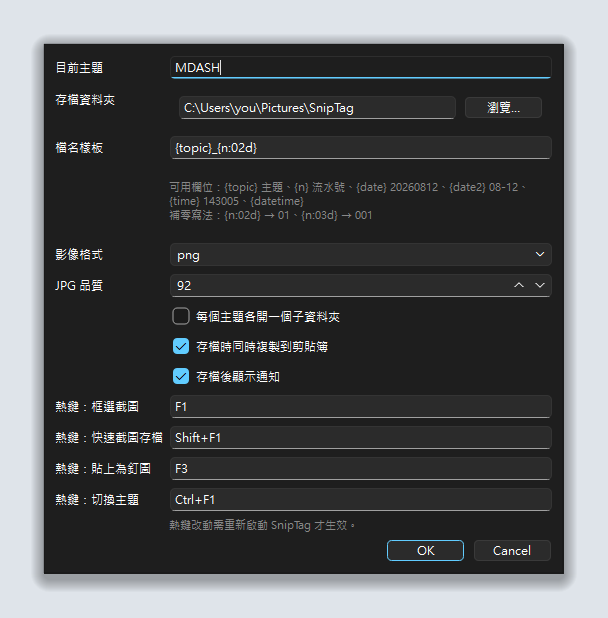
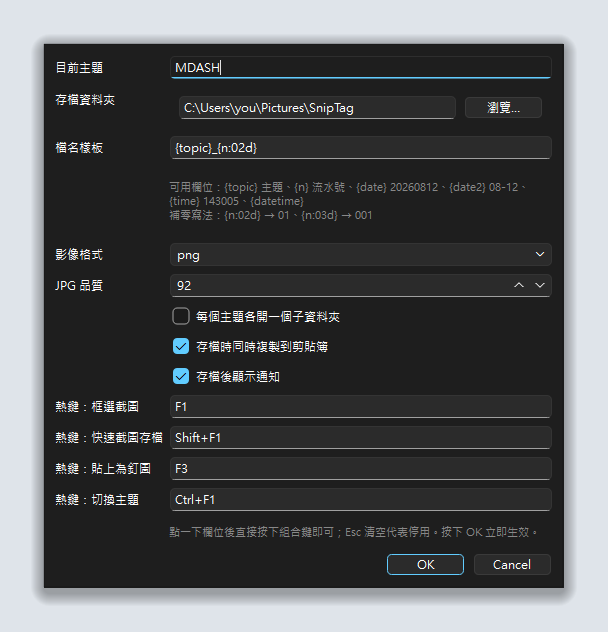
Record hotkeys by keypress and apply them without restarting
The settings dialog asked users to type Shift+F1 by hand. Replace the
plain fields with a HotkeyEdit that records the actual combination:
modifier-only presses are ignored until a real key arrives, unsupported
combinations are rejected, and Esc clears the binding to disable it.

Global hotkeys are unregistered while the dialog is open, otherwise
RegisterHotKey swallows F1 before the recorder can ever see it. On OK
the bindings are re-registered immediately, so no restart is needed.

Also add build.py (one-file exe with a generated .ico) and GitHub
Actions workflows that run the tests on every push and publish a release
with the built exe when a v* tag lands.

diff --git a/sniptag/dialogs.py b/sniptag/dialogs.py
@@ -2,12 +2,43 @@
 from __future__ import annotations
 
 from PySide6.QtCore import Qt
+from PySide6.QtGui import QKeySequence
 from PySide6.QtWidgets import (
     QCheckBox, QComboBox, QDialog, QDialogButtonBox, QFileDialog, QFormLayout,
     QHBoxLayout, QLabel, QLineEdit, QPushButton, QSpinBox, QVBoxLayout, QWidget,
 )
 
+from . import hotkeys
 from .naming import Namer
+
+MODIFIER_KEYS = (Qt.Key_Control, Qt.Key_Shift, Qt.Key_Alt, Qt.Key_Meta,
+                 Qt.Key_AltGr, Qt.Key_CapsLock, Qt.Key_NumLock)
+CLEAR_KEYS = (Qt.Key_Backspace, Qt.Key_Delete, Qt.Key_Escape)
+
+
+class HotkeyEdit(QLineEdit):
+    """點一下就開始錄製：直接按下想要的組合鍵，不用自己打字。"""
+
+    def __init__(self, value: str, parent: QWidget | None = None) -> None:
+        super().__init__(value, parent)
+        self.setReadOnly(True)
+        self.setPlaceholderText("點一下，然後按下想要的組合鍵（Esc 停用）")
+        self.setToolTip("點一下之後直接按組合鍵；Esc / Backspace 可清空停用此熱鍵。")
+
+    def keyPressEvent(self, event) -> None:
+        key = event.key()
+        if key in MODIFIER_KEYS:
+            return                      # 等使用者按下真正的那個鍵
+        if key in CLEAR_KEYS:
+            self.clear()
+            return
+        try:
+            combo = QKeySequence(event.keyCombination()).toString()
+        except (AttributeError, TypeError):
+            combo = QKeySequence(int(event.modifiers().value) | key).toString()
+        if combo and hotkeys.parse(combo) is not None:
+            self.setText(combo)
+        # 不支援的組合就忽略，維持原本的值
 
 TEMPLATE_HELP = (
     "可用欄位：{topic} 主題、{n} 流水號、{date} 20260812、"
@@ -116,16 +147,19 @@ class SettingsDialog(QDialog):
         self.notify_check.setChecked(bool(config["notify_on_save"]))
         form.addRow("", self.notify_check)
 
-        self.hk_capture = QLineEdit(config["hotkey_capture"], self)
-        self.hk_quick = QLineEdit(config["hotkey_quickshot"], self)
-        self.hk_pin = QLineEdit(config["hotkey_pin"], self)
-        self.hk_topic = QLineEdit(config["hotkey_topic"], self)
+        self.hk_capture = HotkeyEdit(config["hotkey_capture"], self)
+        self.hk_quick = HotkeyEdit(config["hotkey_quickshot"], self)
+        self.hk_pin = HotkeyEdit(config["hotkey_pin"], self)
+        self.hk_topic = HotkeyEdit(config["hotkey_topic"], self)
         form.addRow("熱鍵：框選截圖", self.hk_capture)
         form.addRow("熱鍵：快速截圖存檔", self.hk_quick)
         form.addRow("熱鍵：貼上為釘圖", self.hk_pin)
         form.addRow("熱鍵：切換主題", self.hk_topic)
-        hotkey_note = QLabel("熱鍵改動需重新啟動 SnipTag 才生效。", self)
+        hotkey_note = QLabel(
+            "點一下欄位後直接按下組合鍵即可；Esc 清空代表停用。按下 OK 立即生效。",
+            self)
         hotkey_note.setStyleSheet("color:#888; font-size:11px;")
+        hotkey_note.setWordWrap(True)
         form.addRow("", hotkey_note)
 
         layout = QVBoxLayout(self)

diff --git a/test_hotkeys.py b/test_hotkeys.py
@@ -1,0 +1,78 @@
+"""熱鍵解析與錄製欄位測試：python test_hotkeys.py"""
+from __future__ import annotations
+
+import sys
+
+from PySide6.QtCore import QEvent, Qt
+from PySide6.QtGui import QKeyEvent
+from PySide6.QtWidgets import QApplication
+
+from sniptag import hotkeys
+from sniptag.dialogs import HotkeyEdit
+
+MOD_ALT, MOD_CONTROL, MOD_SHIFT, MOD_WIN = 0x1, 0x2, 0x4, 0x8
+
+
+def check(condition: bool, label: str) -> None:
+    print(("  ok   " if condition else "  FAIL ") + label)
+    assert condition, label
+
+
+def press(widget: HotkeyEdit, key, modifiers=Qt.NoModifier) -> None:
+    widget.keyPressEvent(QKeyEvent(QEvent.KeyPress, key, modifiers))
+
+
+def main() -> None:
+    app = QApplication.instance() or QApplication(sys.argv)
+
+    print("解析")
+    check(hotkeys.parse("F1")[1] == 0x70, "F1 -> VK 0x70")
+    check(hotkeys.parse("F12")[1] == 0x7B, "F12 -> VK 0x7B")
+    mods, vk = hotkeys.parse("Ctrl+Shift+A")
+    check(vk == ord("A"), "字母鍵")
+    check(mods & MOD_CONTROL and mods & MOD_SHIFT, "Ctrl 與 Shift 都在")
+    check(not mods & MOD_ALT, "沒按的修飾鍵不會混進來")
+    check(hotkeys.parse("Meta+P")[0] & MOD_WIN, "Meta 對應到 Windows 鍵")
+    check(hotkeys.parse("bogus+") is None, "亂打的組合 -> None")
+    check(hotkeys.parse("") is None, "空字串 -> None")
+
+    print("錄製欄位")
+    widget = HotkeyEdit("F1")
+    check(widget.text() == "F1", "帶入原本的值")
+    check(widget.isReadOnly(), "唯讀，不能用打字的")
+
+    press(widget, Qt.Key_F1, Qt.ShiftModifier)
+    check(widget.text() == "Shift+F1", "按 Shift+F1 -> 記錄成 Shift+F1")
+    check(hotkeys.parse(widget.text()) is not None, "記錄的字串本身可被解析")
+
+    press(widget, Qt.Key_F4, Qt.ControlModifier | Qt.AltModifier)
+    check(widget.text() == "Ctrl+Alt+F4", "多個修飾鍵")
+
+    before = widget.text()
+    press(widget, Qt.Key_Shift, Qt.ShiftModifier)
+    press(widget, Qt.Key_Control, Qt.ControlModifier)
+    check(widget.text() == before, "只按修飾鍵不會覆寫，會等真正的鍵")
+
+    press(widget, Qt.Key_Escape)
+    check(widget.text() == "", "Esc 清空代表停用")
+    press(widget, Qt.Key_F2)
+    press(widget, Qt.Key_Backspace)
+    check(widget.text() == "", "Backspace 也能清空")
+
+    print("停用的熱鍵不算註冊失敗")
+    manager = hotkeys.HotkeyManager(app)
+    try:
+        check(manager.register("", lambda: None) is False, "空字串不註冊")
+        check(manager.register("   ", lambda: None) is False, "空白字串不註冊")
+        check(manager.failed == [], "但也不會被列為失敗")
+        check(manager.register("!!bad!!", lambda: None) is False, "壞組合註冊失敗")
+        check(manager.failed == ["!!bad!!"], "壞組合才會被列出來")
+    finally:
+        manager.unregister_all()
+
+    print("\n全部通過。")
+    del app
+
+
+if __name__ == "__main__":
+    main()

diff --git a/build.py b/build.py
@@ -1,0 +1,80 @@
+"""打包成單一 exe：python build.py
+
+產物是 dist/SnipTag.exe —— 免安裝、不需要對方電腦有 Python。
+"""
+from __future__ import annotations
+
+import shutil
+import subprocess
+import sys
+from pathlib import Path
+
+ROOT = Path(__file__).resolve().parent
+BUILD = ROOT / "build"
+DIST = ROOT / "dist"
+ICON = BUILD / "SnipTag.ico"
+NAME = "SnipTag"
+
+
+def make_icon() -> Path | None:
+    """用程式裡那顆圖示產生 .ico，免得再多一個要維護的二進位檔。"""
+    from PySide6.QtGui import QGuiApplication  # noqa: F401 - 需要 QApplication
+    from PySide6.QtWidgets import QApplication
+
+    from sniptag.icon import write_ico
+
+    app = QApplication.instance() or QApplication([])
+    ICON.parent.mkdir(parents=True, exist_ok=True)
+    ok = write_ico(ICON)
+    del app
+    return ICON if ok else None
+
+
+def main() -> int:
+    sys.path.insert(0, str(ROOT))
+    icon = make_icon()
+    if icon is None:
+        print("!! 圖示產生失敗，改用預設圖示")
+
+    for stale in (DIST / f"{NAME}.exe", ROOT / f"{NAME}.spec"):
+        stale.unlink(missing_ok=True)
+    shutil.rmtree(BUILD / NAME, ignore_errors=True)
+
+    command = [
+        sys.executable, "-m", "PyInstaller",
+        "--noconfirm", "--clean",
+        "--onefile", "--noconsole",
+        "--name", NAME,
+        "--workpath", str(BUILD),
+        "--specpath", str(BUILD),
+        "--distpath", str(DIST),
+        # 用不到的 Qt 模組排掉，檔案小很多
+        "--exclude-module", "PySide6.QtNetwork",
+        "--exclude-module", "PySide6.QtQml",
+        "--exclude-module", "PySide6.QtQuick",
+        "--exclude-module", "PySide6.Qt3DCore",
+        "--exclude-module", "PySide6.QtMultimedia",
+        "--exclude-module", "PySide6.QtWebEngineCore",
+        "--exclude-module", "tkinter",
+        "--exclude-module", "unittest",
+        "--exclude-module", "pydoc",
+    ]
+    if icon is not None:
+        command += ["--icon", str(icon)]
+    command.append(str(ROOT / "run.py"))
+
+    print("執行：", " ".join(command[1:]), "\n")
+    result = subprocess.run(command, cwd=ROOT)
+    if result.returncode != 0:
+        return result.returncode
+
+    exe = DIST / f"{NAME}.exe"
+    if not exe.exists():
+        print("!! 找不到產物", exe)
+        return 1
+    print(f"\n完成：{exe}  ({exe.stat().st_size / 1024 / 1024:.1f} MB)")
+    return 0
+
+
+if __name__ == "__main__":
+    sys.exit(main())

diff --git a/sniptag/app.py b/sniptag/app.py
@@ -116,6 +116,19 @@ class SnipTagApp(QObject):
         self.hotkeys.register(self.cfg["hotkey_pin"], self.paste_pin)
         self.hotkeys.register(self.cfg["hotkey_topic"], self.change_topic)
 
+    def reload_hotkeys(self, announce: bool = False) -> None:
+        """改完設定立即套用，不需要重新啟動。"""
+        self.hotkeys.unregister_all()
+        self._register_hotkeys()
+        if self.hotkeys.failed:
+            self.notify(
+                "部分熱鍵註冊失敗",
+                "被其他程式佔用：" + "、".join(self.hotkeys.failed),
+                QSystemTrayIcon.Warning,
+            )
+        elif announce:
+            self.notify("設定已套用", "熱鍵已立即生效。")
+
     # --- 截圖流程 -------------------------------------------------
     def start_capture(self, quick: bool = False) -> None:
         if self.overlay is not None:
@@ -265,13 +278,20 @@ class SnipTagApp(QObject):
             self.notify("主題已切換", f"{self.cfg['topic']}　下一張：{self.namer.preview()}")
 
     def open_settings(self) -> None:
-        dialog = SettingsDialog(self.cfg)
-        dialog.setWindowIcon(self.icon)
-        if dialog.exec() == SettingsDialog.Accepted:
-            dialog.apply_to_config()
-            self.menu = self._build_menu()
-            self.tray.setContextMenu(self.menu)
-            self._refresh_tooltip()
+        # 全域熱鍵會攔截 F1 這類按鍵，錄製欄位就收不到了 —— 開設定期間先卸下
+        self.hotkeys.unregister_all()
+        accepted = False
+        try:
+            dialog = SettingsDialog(self.cfg)
+            dialog.setWindowIcon(self.icon)
+            accepted = dialog.exec() == SettingsDialog.Accepted
+            if accepted:
+                dialog.apply_to_config()
+                self.menu = self._build_menu()
+                self.tray.setContextMenu(self.menu)
+                self._refresh_tooltip()
+        finally:
+            self.reload_hotkeys(announce=accepted)
 
     def open_folder(self) -> None:
         directory = self.namer.target_dir()

diff --git a/sniptag/icon.py b/sniptag/icon.py
@@ -7,7 +7,7 @@ from PySide6.QtGui import QColor, QIcon, QPainter, QPen, QPixmap
 ACCENT = "#2d7ff9"
 
 
-def app_icon(size: int = 128) -> QIcon:
+def icon_pixmap(size: int = 256) -> QPixmap:
     pixmap = QPixmap(size, size)
     pixmap.fill(Qt.transparent)
     painter = QPainter(pixmap)
@@ -30,4 +30,14 @@ def app_icon(size: int = 128) -> QIcon:
     painter.drawLine(int(size * 0.13), int(size * 0.27), int(size * 0.87), int(size * 0.27))
     painter.drawLine(int(size * 0.13), int(size * 0.73), int(size * 0.87), int(size * 0.73))
     painter.end()
-    return QIcon(pixmap)
+    return pixmap
+
+
+def app_icon(size: int = 128) -> QIcon:
+    return QIcon(icon_pixmap(size))
+
+
+def write_ico(path) -> bool:
+    """輸出多尺寸 .ico，給 PyInstaller 當 exe 圖示用。"""
+    image = icon_pixmap(256).toImage()
+    return image.save(str(path), "ICO")

diff --git a/sniptag/hotkeys.py b/sniptag/hotkeys.py
@@ -87,6 +87,8 @@ class HotkeyManager:
     def register(self, spec: str, callback) -> bool:
         if not self._available:
             return False
+        if not str(spec).strip():
+            return False        # 空白 = 使用者刻意停用，不算失敗
         parsed = parse(spec)
         if parsed is None:
             self.failed.append(spec)

diff --git a/README.md b/README.md
@@ -173,7 +173,8 @@ python -m sniptag
 | `F3` | 把剪貼簿裡的圖釘到桌面 |
 | `Ctrl+F1` | 切換主題 |
 
-熱鍵可在「設定…」裡改，改完需重新啟動。
+熱鍵可在「設定…」裡改 —— **點一下欄位後直接按下想要的組合鍵**即可錄製，不用自己打字，
+`Esc` 清空代表停用該熱鍵。按下 OK 立即生效，不需要重新啟動。
 
 ### 框選中
 
@@ -362,12 +363,17 @@ python test_annotate.py
 python test_history.py
 ```
 
+```bash
+python test_hotkeys.py
+```
+
 - `test_naming.py` —— 命名與編號邏輯（換主題、刪檔、樣板、非法字元）
 - `test_dpi.py` —— 用模擬的雙螢幕組態（1440×900@200% + 1920×1080@100%）
   驗證座標換算與裁切解析度，不需要真的接上外接螢幕
 - `test_annotate.py` —— 標註是否精準落在輸出影像的對應位置、命中測試
   （空心圖形只認邊框）、搬移、序號遞增、色彩格式
 - `test_history.py` —— 歷史的上限與順序、縮圖、面板動作轉派
+- `test_hotkeys.py` —— 組合鍵解析，以及錄製欄位（只按修飾鍵不覆寫、`Esc` 清空）
 
 ### 重新產生文件截圖
 
